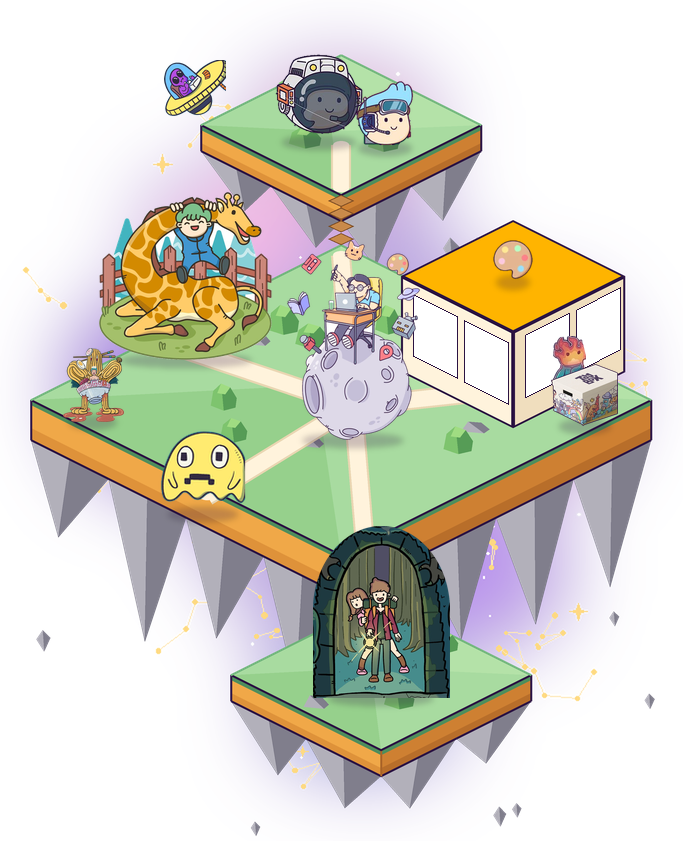
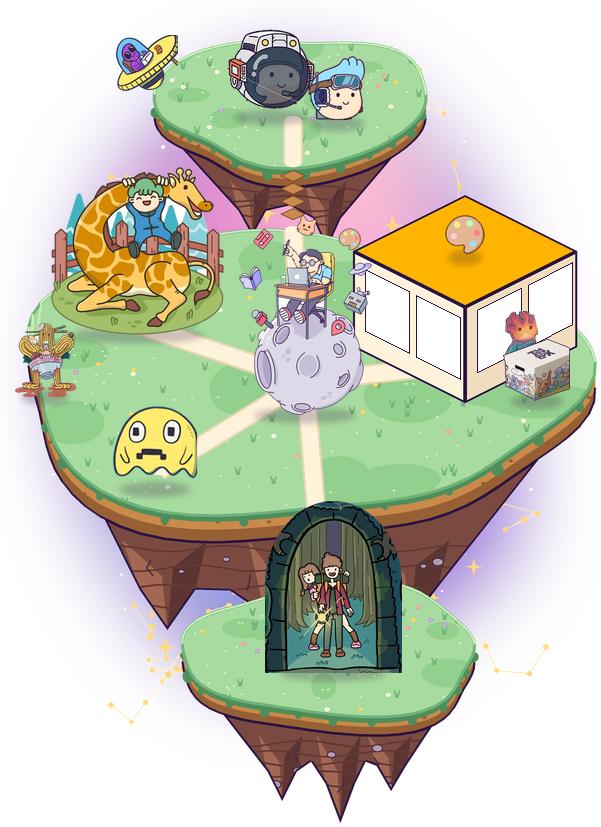
Village: revert the square slabs and grey rock bottoms (owner); back to the textured floating islands with brown rock and the round galaxy, keeping the gold constellations
Claude-Session: https://claude.ai/code/session_014vZdpTepmb6uBiaAW96HMH

diff --git a/assets/village/village.js b/assets/village/village.js
@@ -1,2 +1,2 @@
 // Generated by scripts/village.py from village.json. Do not edit.
-window.VILLAGE={"w": 683, "h": 841, "frames": [{"wall": "left", "x": 416.7, "y": 297.8, "w": 38.1, "h": 56, "slope": 0.5}, {"wall": "left", "x": 467.1, "y": 323.0, "w": 38.1, "h": 56, "slope": 0.5}, {"wall": "right", "x": 528.7, "y": 338.2, "w": 38.1, "h": 56, "slope": -0.5}, {"wall": "right", "x": 579.1, "y": 313.0, "w": 38.1, "h": 56, "slope": -0.5}], "places": {"observatory": {"box": [271, 46, 367, 142], "label": [319.0, 154]}, "gallery": {"box": [401, 220, 626, 430], "label": [513, 436]}, "studio": {"box": [99, 192, 272, 360], "label": [185.5, 372]}, "home": {"box": [287, 240, 420, 440], "label": [353.5, 444]}, "doodle": {"box": [157, 422, 249, 514], "label": [203.0, 518]}, "hire": {"box": [313, 526, 450, 698], "label": [381.5, 702]}}, "folk": {"ufo": {"piece": "doodles", "box": [164, 60, 226, 116]}, "fire-spirit": {"piece": "rpg", "box": [553, 336, 586, 388]}, "noodle-bath": {"piece": "noodles", "box": [63, 348, 124, 422]}}, "walkers": [{"name": "car", "piece": "road-trip", "src": "assets/sprites/car.png", "h": 52, "face": -1, "aspect": 1.379, "route": [[281, 382], [207, 358]]}, {"name": "dog", "piece": "doodles", "src": "assets/sprites/dog.png", "h": 70, "face": -1, "aspect": 0.713, "route": [[299, 434], [243, 472]]}, {"name": "plug-hero", "piece": "plug-hero", "src": "assets/sprites/plug-hero.png", "h": 66, "face": -1, "aspect": 0.821, "route": [[413, 402], [481, 392]]}, {"name": "orange-monster", "piece": "doodles", "src": "assets/sprites/orange-monster.png", "h": 44, "face": 1, "aspect": 1.078, "route": [[341, 156], [341, 190], [341, 238]]}, {"name": "crab", "piece": "summertime", "src": "assets/sprites/crab.png", "h": 30, "face": 0, "aspect": 1.442, "route": [[273, 672], [309, 654]]}], "scenery": [], "lantern": [369.4, 642.1], "smoke": [[93.5, 366]]};
+window.VILLAGE={"w": 601, "h": 827, "frames": [{"wall": "left", "x": 368.7, "y": 272.8, "w": 38.1, "h": 56, "slope": 0.5}, {"wall": "left", "x": 419.1, "y": 298.0, "w": 38.1, "h": 56, "slope": 0.5}, {"wall": "right", "x": 480.7, "y": 313.2, "w": 38.1, "h": 56, "slope": -0.5}, {"wall": "right", "x": 531.1, "y": 288.0, "w": 38.1, "h": 56, "slope": -0.5}], "places": {"observatory": {"box": [223, 21, 319, 117], "label": [271.0, 129]}, "gallery": {"box": [353, 195, 578, 405], "label": [465, 411]}, "studio": {"box": [51, 167, 224, 335], "label": [137.5, 347]}, "home": {"box": [239, 215, 372, 415], "label": [305.5, 419]}, "doodle": {"box": [109, 397, 201, 489], "label": [155.0, 493]}, "hire": {"box": [265, 501, 402, 673], "label": [333.5, 677]}}, "folk": {"ufo": {"piece": "doodles", "box": [116, 35, 178, 91]}, "fire-spirit": {"piece": "rpg", "box": [505, 311, 538, 363]}, "noodle-bath": {"piece": "noodles", "box": [15, 323, 76, 397]}}, "walkers": [{"name": "car", "piece": "road-trip", "src": "assets/sprites/car.png", "h": 52, "face": -1, "aspect": 1.379, "route": [[233, 357], [159, 333]]}, {"name": "dog", "piece": "doodles", "src": "assets/sprites/dog.png", "h": 70, "face": -1, "aspect": 0.713, "route": [[251, 409], [195, 447]]}, {"name": "plug-hero", "piece": "plug-hero", "src": "assets/sprites/plug-hero.png", "h": 66, "face": -1, "aspect": 0.821, "route": [[365, 377], [433, 367]]}, {"name": "orange-monster", "piece": "doodles", "src": "assets/sprites/orange-monster.png", "h": 44, "face": 1, "aspect": 1.078, "route": [[293, 131], [293, 165], [293, 213]]}, {"name": "crab", "piece": "summertime", "src": "assets/sprites/crab.png", "h": 30, "face": 0, "aspect": 1.442, "route": [[225, 647], [261, 629]]}], "scenery": [], "lantern": [321.4, 617.1], "smoke": [[45.5, 341]]};

diff --git a/scripts/village.py b/scripts/village.py
@@ -23,10 +23,6 @@ GRASS, GRASS_L, GRASS_R = (168, 219, 160), (111, 179, 122), (78, 142, 92)
 SAND = (255, 227, 168)
 CLIFF, CLIFF_DARK = (201, 138, 74), (150, 96, 52)
 ROCK, ROCK_LIT, ROCK_DARK = (122, 74, 64), (163, 104, 84), (92, 52, 50)
-SOIL_L, SOIL_R, SOIL_L_DARK, SOIL_R_DARK, SOIL_EDGE = (240, 168, 72), (206, 128, 50), (222, 146, 58), (184, 110, 42), (170, 100, 40)
-SHARD_LIT, SHARD_DARK, SHARD_LINE = (178, 176, 186), (128, 126, 140), (98, 96, 112)
-GRASS_FACE, GRASS_FACE2 = (150, 208, 140), (180, 226, 168)
-BUSH_LIT, BUSH_DARK, BUSH_TOP = (126, 196, 110), (86, 156, 86), (160, 220, 130)
 STONE, PEBBLE = (176, 156, 178), (150, 96, 52)
 GRASS_DEEP, GRASS_SPECK, GRASS_LIGHT = (126, 196, 120), (214, 240, 196), (200, 238, 184)
 FLOWERS = [(255, 143, 177), (255, 255, 255), (255, 210, 90), (195, 139, 255)]
@@ -61,81 +57,112 @@ def scaled(pts, cx, cy, k, dy=0):
     return [(cx + (x - cx) * k, cy + (y - cy) * k + dy) for x, y in pts]
 
 
-def facet(d, pts, light, dark, axis=None):
-    """A low-poly shape: two faces split down the middle, the left lit and the right in shade."""
-    cx = sum(x for x, _ in pts) / len(pts)
-    top = min(pts, key=lambda p: p[1])
-    bot = max(pts, key=lambda p: p[1])
-    d.polygon(P(pts), fill=dark)
-    left = [p for p in pts if p[0] <= cx]
-    d.polygon(P([top] + sorted(left, key=lambda p: p[1]) + [bot]), fill=light)
-
-
-def island(base, cx, cy, hw, hh, depth, seed=1, shards=3, deco=10):
-    """A low-poly floating island: a square grass slab on thick soil, grey rock shards underneath,
-    small shards floating around it, and low-poly bushes and stones on top (plain shapes)."""
+def island(base, cx, cy, hw, hh, depth, seed=1, k=.97, tips=((-.45, .32), (0, .48), (.42, .3))):
+    """A floating island: a grass top over a soil band, and a rock underside that tapers into points.
+    tips: (x offset as a share of the width, depth as a share of the width) for each hanging point."""
+    import math
     import random
-    rnd = random.Random(seed * 31)
+    rnd = random.Random(seed * 101)
     d = ImageDraw.Draw(base)
-    L, B, R, T = (cx - hw, cy), (cx, cy + hh), (cx + hw, cy), (cx, cy - hh)
-    dn = lambda p, k=depth: (p[0], p[1] + k)
-    # rock shards under the two front edges, each split into a lit and a shaded face
-    for edge, n in (((L, B), shards), ((B, R), shards)):
-        (x0, y0), (x1, y1) = dn(edge[0]), dn(edge[1])
-        for j in range(n):
-            t0, t1 = j / n, (j + 1) / n
-            a = (x0 + (x1 - x0) * t0, y0 + (y1 - y0) * t0)
-            b = (x0 + (x1 - x0) * t1, y0 + (y1 - y0) * t1)
-            mx, my = (a[0] + b[0]) / 2, (a[1] + b[1]) / 2
-            tip = (mx + rnd.uniform(-.15, .15) * hw / n, my + hw * rnd.uniform(.28, .5) * (1.2 - abs(.5 - (t0 + t1) / 2)))
-            d.polygon(P([a, (mx, my - 2), tip]), fill=SHARD_LIT, outline=SHARD_LINE)
-            d.polygon(P([(mx, my - 2), b, tip]), fill=SHARD_DARK, outline=SHARD_LINE)
-    # soil sides (left lit, right shaded), with a darker band at the bottom
-    d.polygon(P([L, B, dn(B), dn(L)]), fill=SOIL_L)
-    d.polygon(P([B, R, dn(R), dn(B)]), fill=SOIL_R)
-    d.polygon(P([dn(L, depth * .7), dn(B, depth * .7), dn(B), dn(L)]), fill=SOIL_L_DARK)
-    d.polygon(P([dn(B, depth * .7), dn(R, depth * .7), dn(R), dn(B)]), fill=SOIL_R_DARK)
-    for (p0, p1) in ((L, B), (B, R)):   # the turf's thickness over the soil
-        d.polygon(P([p0, p1, dn(p1, 5), dn(p0, 5)]), fill=GRASS_R)
-    d.line(P([dn(L), dn(B), dn(R)]), fill=INK, width=2 * S)
-    d.line(P([L, dn(L)]), fill=INK, width=2 * S)
-    d.line(P([R, dn(R)]), fill=INK, width=2 * S)
-    d.line(P([B, dn(B)]), fill=SOIL_EDGE, width=2 * S)
-    # grass top in four low-poly faces around the center
-    c = (cx + rnd.uniform(-.1, .1) * hw, cy + rnd.uniform(-.1, .1) * hh)
-    for (p0, p1), col in (((T, L), GRASS), ((L, B), GRASS_FACE), ((B, R), GRASS), ((R, T), GRASS_FACE2)):
-        d.polygon(P([c, p0, p1]), fill=col)
-    d.line(P([L, B, R]), fill=INK, width=2 * S)
-    d.line(P([L, T, R]), fill=GRASS_L, width=2 * S)
-    # low-poly bushes and stones on top (kept away from the middle, where the places stand)
-    spots = []
-    for _ in range(deco * 6):
-        if len(spots) >= deco:
+    top = blob(cx, cy, hw * k, hh * .9, seed, wobble=.11)
+    rx = hw * k
+    # the front half of the outline, left to right, at the bottom of the soil band
+    left = min(range(len(top)), key=lambda i: top[i][0])
+    right = max(range(len(top)), key=lambda i: top[i][0])
+    front, i = [], left
+    while True:   # points with angles from pi down to 0 run through the front (larger y)
+        front.append((top[i][0], top[i][1] + depth))
+        if i == right:
             break
-        u, v = rnd.uniform(-1, 1), rnd.uniform(-1, 1)
-        if abs(u) + abs(v) > .9 or abs(u) + abs(v) < .55:
-            continue
-        x, y = cx + (u - v) * hw / 2, cy + (u + v) * hh / 2
-        if all(abs(x - a) + abs(y - b) > 34 for a, b in spots):
-            spots.append((x, y))
-    for x, y in sorted(spots, key=lambda p: p[1]):
-        if rnd.random() < .7:   # bush: a faceted rounded block
-            w, h = rnd.uniform(12, 18), rnd.uniform(18, 28)
-            pts = [(x - w, y - 2), (x - w * .8, y - h * .7), (x - w * .2, y - h), (x + w * .5, y - h * .85), (x + w, y - h * .4), (x + w * .9, y), (x, y + 3)]
-            facet(d, pts, BUSH_LIT, BUSH_DARK)
-            d.polygon(P([(x - w * .2, y - h), (x + w * .5, y - h * .85), (x + w * .1, y - h * .55), (x - w * .5, y - h * .6)]), fill=BUSH_TOP)
-        else:   # stone: a faceted grey rock
-            w, h = rnd.uniform(10, 15), rnd.uniform(9, 14)
-            pts = [(x - w, y), (x - w * .5, y - h), (x + w * .4, y - h * .9), (x + w, y - h * .2), (x + w * .6, y + 2)]
-            facet(d, pts, SHARD_LIT, SHARD_DARK)
-    # small shards floating around the island
-    for _ in range(3):
-        side = rnd.choice((-1, 1))
-        x = cx + side * rnd.uniform(.75, 1.05) * hw
-        y = cy + hh + depth + rnd.uniform(.05, .35) * hw
-        r = rnd.uniform(5, 9)
-        pts = [(x, y - r * 1.2), (x + r, y - r * .2), (x + r * .2, y + r * 1.6), (x - r * .8, y)]
-        facet(d, pts, SHARD_LIT, SHARD_DARK)
+        i = (i - 1) % len(top)
+    if front[len(front) // 2][1] < cy:   # walked the back edge: go the other way round
+        front, i = [], left
+        while True:
+            front.append((top[i][0], top[i][1] + depth))
+            if i == right:
+                break
+            i = (i + 1) % len(top)
+    # rock underside: from the right end, down to each point and back up between them, to the left end
+    under = []
+    pts = sorted(tips, key=lambda t: -t[0])
+    bot = cy + hh * .9 + depth
+    for j, (ox, dep) in enumerate(pts):
+        x = cx + ox * rx
+        if j:
+            px = cx + pts[j - 1][0] * rx
+            under.append(((x + px) / 2, bot + rx * .18))           # the valley between two points
+        under.append((x + rx * .1, bot + rx * dep * .55))        # shoulder
+        under.append((x, bot + rx * dep))                         # the point
+        under.append((x - rx * .1, bot + rx * dep * .55))
+    rock = front + under
+    d.polygon(P(rock), fill=ROCK)
+
+    def clipped(poly, paint):
+        """Paint on a layer and keep only what falls inside poly (texture stays inside its shape)."""
+        layer = Image.new("RGBA", base.size)
+        paint(ImageDraw.Draw(layer))
+        m = Image.new("L", base.size, 0)
+        ImageDraw.Draw(m).polygon(P(poly), fill=255)
+        layer.putalpha(Image.fromarray(np.minimum(np.array(layer.getchannel("A")), np.array(m))))
+        base.alpha_composite(layer)
+
+    def rock_texture(ld):
+        for ox, dep in pts:   # each point: a lit face on the left, a shaded face on the right
+            x = cx + ox * rx
+            ld.polygon(P([(x - rx * .1, bot + rx * dep * .55), (x, bot + rx * dep), (x - rx * .02, bot + rx * dep * .4), (x - rx * .16, bot)]), fill=ROCK_LIT)
+            ld.polygon(P([(x + rx * .02, bot + rx * dep * .3), (x, bot + rx * dep), (x + rx * .1, bot + rx * dep * .55), (x + rx * .14, bot)]), fill=ROCK_DARK)
+        for j in range(5):   # strata: wavy layers across the rock
+            y0 = bot + 8 + j * rx * .07
+            line = [(x, y0 + 3 * math.sin(x / 18 + j * 1.7 + seed)) for x in range(int(cx - rx * 1.2), int(cx + rx * 1.2), 6)]
+            ld.line(P(line), fill=ROCK_DARK + (200,), width=2 * S)
+        for _ in range(int(rx / 18)):   # cracks
+            x, y = cx + rnd.uniform(-.8, .8) * rx, bot + rnd.uniform(.05, .4) * rx
+            ld.line(P([(x, y), (x + rnd.uniform(-6, 6), y + 7), (x + rnd.uniform(-8, 8), y + 15)]), fill=INK + (150,), width=S + 2)
+        for _ in range(int(rx / 22)):   # stones set in the rock
+            x, y, r = cx + rnd.uniform(-.8, .8) * rx, bot + rnd.uniform(.05, .35) * rx, rnd.uniform(3, 6)
+            ld.ellipse(P([(x - r, y - r * .7), (x + r, y + r * .7)]), fill=STONE, outline=INK + (180,), width=S)
+    clipped(rock, rock_texture)
+    d.polygon(P(rock), outline=INK, width=2 * S)
+
+    for kk in range(depth, 0, -2):   # soil band under the grass, with a darker lower half
+        d.polygon(P(scaled(top, cx, cy, 1.0, kk)), fill=CLIFF_DARK if kk > depth * .6 else CLIFF)
+    soil = scaled(top, cx, cy, 1.0, depth)
+
+    def soil_texture(ld):
+        for x, y in front[::2]:   # pebbles along the band
+            if rnd.random() < .6:
+                yy = y - depth * rnd.uniform(.3, .8)
+                ld.ellipse(P([(x - 2, yy - 1.5), (x + 2, yy + 1.5)]), fill=PEBBLE)
+    clipped([(x, y - depth) for x, y in front] + front[::-1], soil_texture)
+    d.line(P(front), fill=INK, width=2 * S)
+    d.polygon(P(scaled(top, cx, cy, 1.0, 6)), fill=GRASS_R)   # the turf's own thickness
+    # the grass lip hangs over the soil in small drips
+    for x, y in front[1:-1:3]:
+        r = rnd.uniform(3, 6)
+        d.ellipse(P([(x - r, y - depth + 2), (x + r, y - depth + 2 + r * 2.2)]), fill=GRASS_R)
+    d.polygon(P(top), fill=GRASS)
+
+    def grass_texture(ld):
+        for _ in range(int(rx / 14)):   # darker patches
+            x, y = cx + rnd.uniform(-.9, .9) * rx, cy + rnd.uniform(-.8, .8) * hh
+            a, b = rnd.uniform(.08, .2) * rx, rnd.uniform(.04, .1) * rx
+            ld.ellipse(P([(x - a, y - b), (x + a, y + b)]), fill=GRASS_DEEP + (120,))
+        for _ in range(int(rx * .5)):   # light specks
+            x, y = cx + rnd.uniform(-1, 1) * rx, cy + rnd.uniform(-1, 1) * hh
+            ld.ellipse(P([(x - 1.2, y - .8), (x + 1.2, y + .8)]), fill=GRASS_SPECK)
+        for _ in range(int(rx / 5)):   # grass tufts
+            x, y = cx + rnd.uniform(-.95, .95) * rx, cy + rnd.uniform(-.9, .9) * hh
+            for dx in (-2.5, 0, 2.5):
+                ld.line(P([(x + dx * .4, y), (x + dx, y - 5 - abs(dx))]), fill=GRASS_L, width=S + 1)
+        for _ in range(int(rx / 10)):   # little flowers
+            x, y = cx + rnd.uniform(-.9, .9) * rx, cy + rnd.uniform(-.85, .85) * hh
+            c = rnd.choice(FLOWERS)
+            ld.ellipse(P([(x - 2.4, y - 1.8), (x + 2.4, y + 1.8)]), fill=c)
+            ld.ellipse(P([(x - .9, y - .7), (x + .9, y + .7)]), fill=(255, 225, 120))
+    clipped(top, grass_texture)
+    d.line(P(top + [top[0]]), fill=GRASS_L, width=3 * S)
+    back = [p for p in top if p[1] < cy]   # a soft light along the back edge
+    d.line(P(sorted(back)), fill=GRASS_LIGHT, width=2 * S)
 
 
 def path(d, pts, w=16):
@@ -201,12 +228,9 @@ def galaxy(base):
     col = Image.new("RGB", (W, H), (98, 58, 170))   # color and alpha are blurred apart, so the edges never go dark
     al = Image.new("L", (W, H), 0)
     cd, ad = ImageDraw.Draw(col), ImageDraw.Draw(al)
-    # the glow follows the diamond of the square slabs, not a round disc: a diamond haze plus patches at its corners
-    ad.polygon([(360, 170), (590, 480), (360, 840), (130, 480)], fill=120)
-    cd.polygon([(360, 170), (590, 480), (360, 840), (130, 480)], fill=(110, 66, 190))
-    for (x, y, rx, ry, c) in [(360, 210, 90, 60, (255, 143, 177, 170)), (560, 470, 70, 90, (214, 96, 190, 190)),
-                              (160, 470, 70, 90, (132, 84, 222, 200)), (380, 790, 90, 60, (86, 136, 220, 170)),
-                              (250, 320, 90, 70, (240, 130, 210, 140)), (480, 650, 100, 80, (150, 90, 230, 170))]:
+    for (x, y, rx, ry, c) in [(360, 480, 215, 300, (120, 72, 200, 235)), (285, 350, 120, 110, (214, 96, 190, 190)),
+                              (450, 600, 130, 120, (132, 84, 222, 210)), (410, 280, 100, 80, (255, 143, 177, 150)),
+                              (290, 620, 100, 90, (86, 136, 220, 150)), (480, 430, 90, 90, (240, 130, 210, 150))]:
         box = (x - rx, y - ry, x + rx, y + ry)
         cd.ellipse(box, fill=c[:3])
         ad.ellipse(box, fill=c[3])
@@ -254,9 +278,9 @@ def build():
     # the calm sea: one soft diamond, with a lighter band
     # islands: main, the observatory islet (top) and the gate islet (bottom)
     galaxy(base)
-    island(base, 360, 205, 140, 70, 26, seed=2, shards=2, deco=6)
-    island(base, 360, 480, 310, 155, 40, seed=1, shards=4, deco=18)
-    island(base, 400, 755, 150, 75, 26, seed=3, shards=2, deco=6)
+    island(base, 360, 205, 140, 70, 18, seed=2, tips=((-.3, .4), (.25, .5)))
+    island(base, 360, 480, 310, 155, 26, seed=1, k=.9)
+    island(base, 400, 755, 150, 75, 18, seed=3, tips=((-.35, .45), (.05, .6), (.4, .38)))
     d = ImageDraw.Draw(base)
     bridge(d, (360, 268), (360, 332), 5)
     bridge(d, (384, 628), (396, 688), 5)
